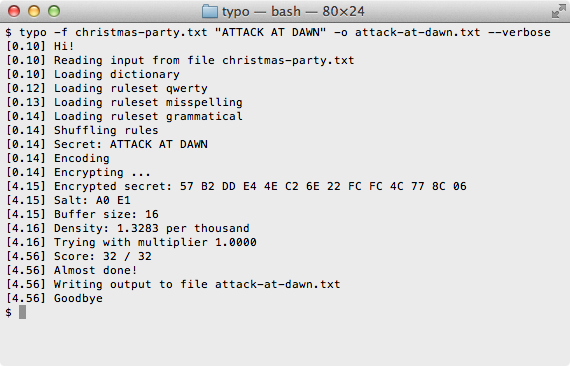
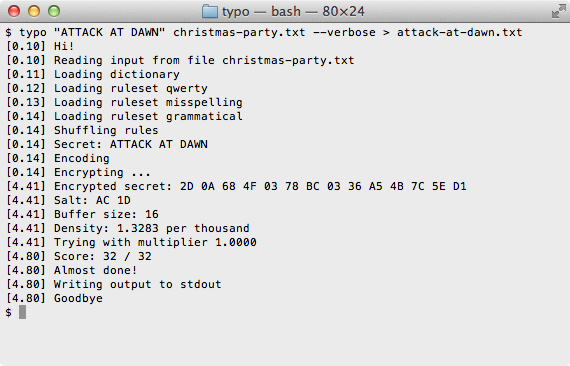
README edits

diff --git a/README.md b/README.md
@@ -34,13 +34,13 @@ Verify the installation:
 
 To encode a secret:
 
-    typo 'SECRET' -f message.txt -o message.typo.txt
+    typo '1984' message.txt > message.typo.txt
 
-Where "SECRET" is the secret.
+Where "1984" is the secret.
 
 To decode a secret:
 
-    typo -d -f message.typo.txt -g message.txt
+    typo -d -g message.txt < message.typo.txt
 
 Where message.txt is the original file.
 
